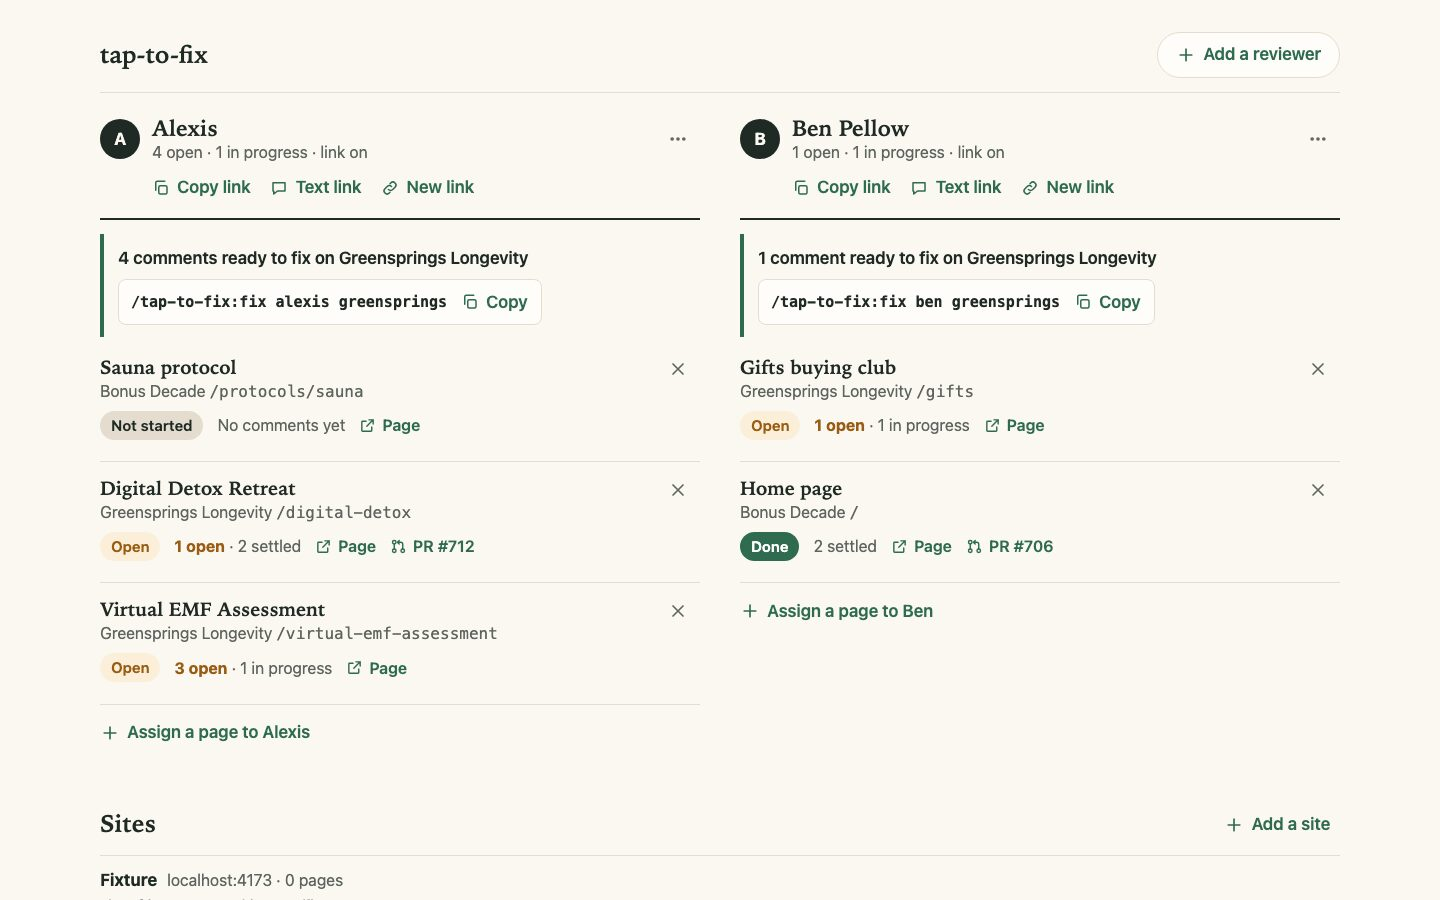
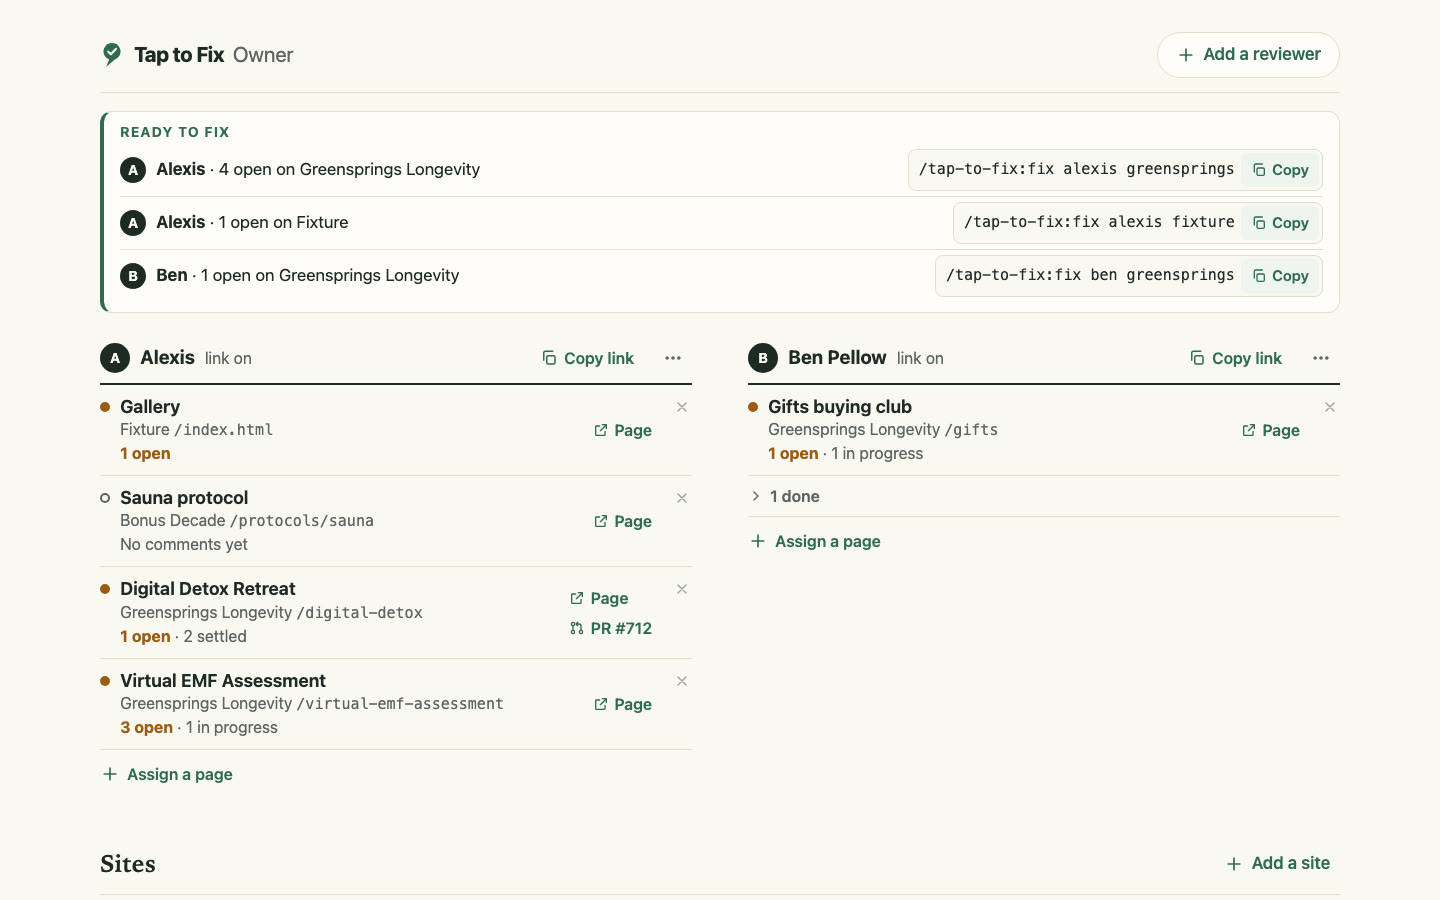
Site: show the new owner dashboard
Replaces the site's dashboard screenshot with layout B and updates its alt text.

Claude-Session: https://claude.ai/code/session_01XcojSjZabHMgJYah5kqGfv

diff --git a/docs/index.html b/docs/index.html
@@ -71,7 +71,7 @@
       <h2>One for you, one for them</h2>
       <div class="duo">
         <figure>
-          <img src="assets/owner-dashboard.jpg" width="1440" height="900" loading="lazy" alt="The owner dashboard: one column per reviewer, with their pages, open comments, pull request links and the command to run.">
+          <img src="assets/owner-dashboard.jpg" width="1440" height="900" loading="lazy" alt="The owner dashboard: a Ready to fix strip with the command to copy for each reviewer, then a short list of each reviewer's pages with their open comments and pull request links.">
           <figcaption><b>Yours:</b> every reviewer, their pages, what's open, and the command to run. Copy or text a reviewer their link from here.</figcaption>
         </figure>
         <figure>
